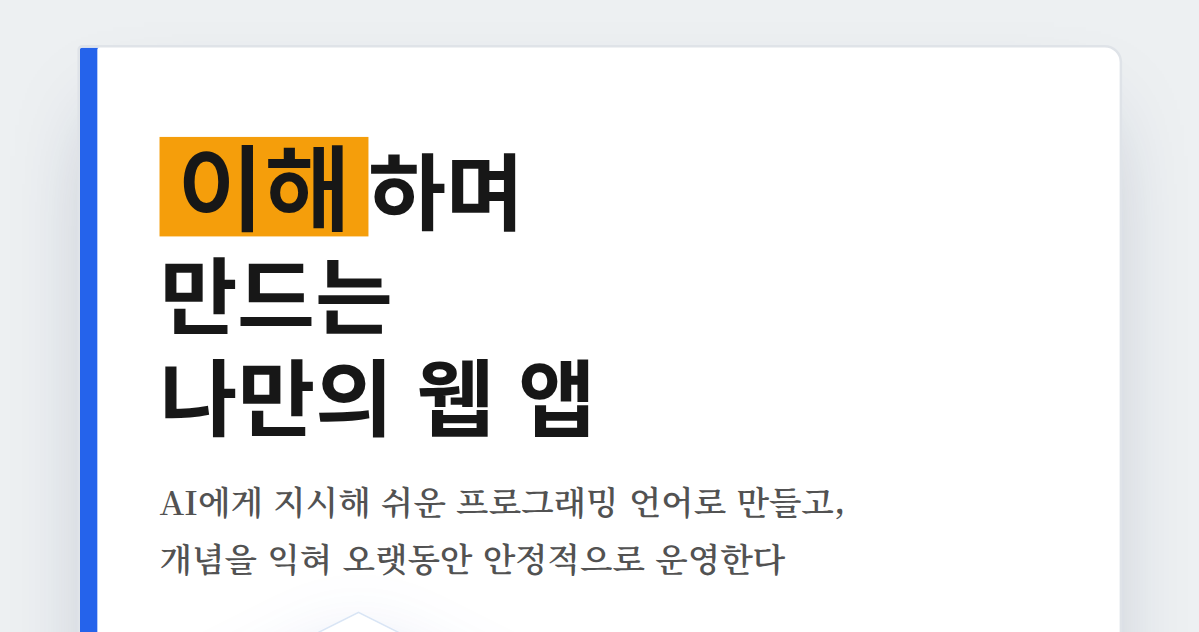
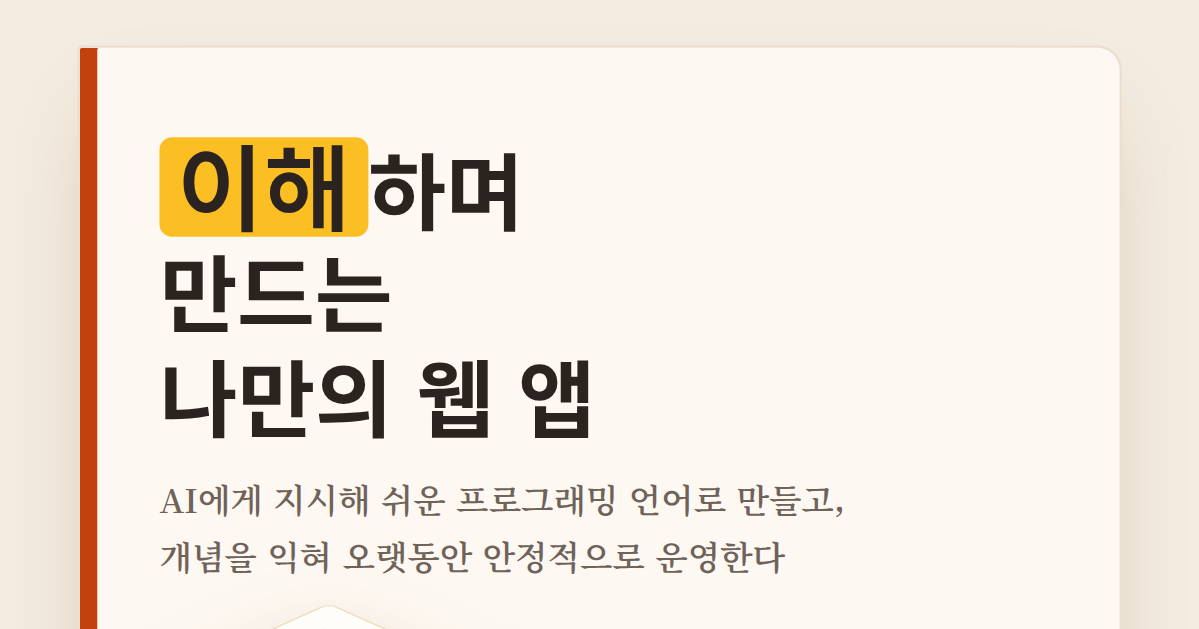
표지 업데이트

diff --git a/book-template/theme/custom.css b/book-template/theme/custom.css
@@ -655,11 +655,11 @@
   justify-content: center;
   gap: 28px;
   padding: 48px 24px 72px;
-  background: #edf0f2;
+  background: #f4ece1;
 }
 
 .dark .fc-home {
-  background: #202226;
+  background: #262220;
 }
 
 .fc-book {
@@ -670,23 +670,23 @@
   aspect-ratio: 7 / 10;
   padding: 30px 32px 26px;
   box-sizing: border-box;
-  border: 1px solid #dfe3e8;
-  border-radius: 2px 7px 7px 2px;
-  background: #ffffff;
-  color: #171717;
+  border: 1px solid #ecdfd0;
+  border-radius: 2px 10px 10px 2px;
+  background: #fdf8f2;
+  color: #2b2320;
   overflow: hidden;
   text-decoration: none !important;
   box-shadow:
-    inset 7px 0 #2563eb,
-    0 18px 36px -14px rgba(23, 37, 84, 0.35);
+    inset 7px 0 #c2410c,
+    0 18px 36px -14px rgba(120, 72, 20, 0.35);
   transition: translate 0.25s, box-shadow 0.25s;
 }
 
 .fc-book:hover {
   translate: 0 -6px;
   box-shadow:
-    inset 7px 0 #2563eb,
-    0 28px 48px -14px rgba(23, 37, 84, 0.45);
+    inset 7px 0 #c2410c,
+    0 28px 48px -14px rgba(120, 72, 20, 0.45);
 }
 
 .fc-book h1 {
@@ -695,7 +695,7 @@
   font-size: 34px;
   line-height: 1.22;
   font-weight: 700;
-  color: #171717;
+  color: #2b2320;
   word-break: keep-all;
 }
 
@@ -707,8 +707,9 @@
 .fc-book h1 strong {
   display: inline-block;
   padding: 0 7px 2px;
-  background: #f59e0b;
-  color: #171717;
+  border-radius: 5px;
+  background: #fbbf24;
+  color: #2b2320;
   font-size: 38px;
   line-height: 1;
 }
@@ -719,7 +720,7 @@
   font-size: 13.5px;
   line-height: 1.7;
   font-weight: 600;
-  color: #525252;
+  color: #6f6259;
   word-break: keep-all;
 }
 
@@ -739,11 +740,11 @@
   display: flex;
   align-items: center;
   gap: 12px;
-  height: 95px;
+  height: 87px;
 }
 
 .fc-layer + .fc-layer {
-  margin-top: -12px;
+  margin-top: -11px;
 }
 
 /* 위 판의 아랫귀가 아래 판을 덮어야 쌓인 모양이 된다 */
@@ -754,11 +755,11 @@
 .fc-plane {
   position: relative;
   flex: none;
-  width: 190px;
+  width: 176px;
   height: 100%;
-  filter: drop-shadow(0 11px 15px rgba(30, 64, 175, 0.16));
-  --sw: 162px;                                       /* 윗면 직사각형 가로 */
-  --sh: 101.25px;                                    /* 세로: 가로와 16:10(모니터 비율) */
+  filter: drop-shadow(0 11px 15px rgba(146, 88, 30, 0.18));
+  --sw: 150px;                                       /* 윗면 직사각형 가로 */
+  --sh: 93.75px;                                     /* 세로: 가로와 16:10(모니터 비율) */
   --t: 11px;                                         /* 판 두께 */
   --dw: calc((var(--sw) + var(--sh)) * 0.3536);      /* 윗면 반너비 */
   --dh: calc((var(--sw) + var(--sh)) * 0.1591);      /* 윗면 반높이 */
@@ -774,8 +775,9 @@
   height: var(--sh);
   box-sizing: border-box;
   padding: 11px 13px;
-  background: #fff;
-  border: 1.5px solid #d9e5f5;
+  background: #fffdfa;
+  border: 1.5px solid #f0dcc2;
+  border-radius: 5px;
   display: flex;
   flex-direction: column;
   justify-content: center;
@@ -803,13 +805,13 @@
   transform: skewY(-24.228deg);
 }
 
-/* 층이 내려갈수록 옆면 파랑이 한 단씩 짙어진다 */
-.fc-layer:nth-child(1) .fc-side-l { background: #bfdbfe; }
-.fc-layer:nth-child(1) .fc-side-r { background: #93c5fd; }
-.fc-layer:nth-child(2) .fc-side-l { background: #3b82f6; }
-.fc-layer:nth-child(2) .fc-side-r { background: #2563eb; }
-.fc-layer:nth-child(3) .fc-side-l { background: #1d4ed8; }
-.fc-layer:nth-child(3) .fc-side-r { background: #1e40af; }
+/* 층이 내려갈수록 옆면 주황이 한 단씩 짙어진다 */
+.fc-layer:nth-child(1) .fc-side-l { background: #fde3b8; }
+.fc-layer:nth-child(1) .fc-side-r { background: #fbcd86; }
+.fc-layer:nth-child(2) .fc-side-l { background: #f6a94c; }
+.fc-layer:nth-child(2) .fc-side-r { background: #ea8c2a; }
+.fc-layer:nth-child(3) .fc-side-l { background: #d97a1e; }
+.fc-layer:nth-child(3) .fc-side-r { background: #b45309; }
 
 /* 윗면 그림: 간소화한 앱 화면(상단 바·플래시카드·버튼) */
 .m-screen {
@@ -823,8 +825,8 @@
 .m-topbar {
   height: 6px;
   width: 45%;
-  border-radius: 2px;
-  background: #e2e8f0;
+  border-radius: 3px;
+  background: #efe4d6;
 }
 
 .m-card {
@@ -832,30 +834,30 @@
   flex-direction: column;
   gap: 5px;
   padding: 7px 8px;
-  border: 2px solid #bfdbfe;
+  border: 2px solid #f8d9a8;
   border-radius: 7px;
-  background: #eff6ff;
+  background: #fff7ec;
 }
 
 .m-word {
   height: 7px;
   width: 45%;
-  border-radius: 2px;
-  background: #171717;
+  border-radius: 3px;
+  background: #2b2320;
 }
 
 .m-ans {
   height: 5px;
   width: 70%;
-  border-radius: 2px;
-  background: #93c5fd;
+  border-radius: 3px;
+  background: #f6a94c;
 }
 
 .m-btn {
   height: 9px;
   width: 100%;
   border-radius: 5px;
-  background: #2563eb;
+  background: #ea8c2a;
 }
 
 /* 윗면 그림: if/for 코드 줄 */
@@ -886,19 +888,19 @@
   font-weight: 700;
   font-size: 15px;
   line-height: 1;
-  color: #2563eb;
+  color: #c2410c;
 }
 
 .m-b {
   height: 6px;
-  border-radius: 2px;
-  background: #cbd5e1;
+  border-radius: 3px;
+  background: #e6dbcd;
 }
 
 .m-b1 { width: 48%; }
 .m-b2 { width: 62%; }
 .m-b3 { width: 36%; }
-.m-b4 { width: 52%; background: #93c5fd; }
+.m-b4 { width: 52%; background: #f6c98a; }
 
 /* 윗면 그림: DB 테이블 격자(머리 행 + 셀) */
 .m-table {
@@ -906,20 +908,20 @@
   grid-template-columns: repeat(4, 1fr);
   gap: 2px;
   width: 100%;
-  border: 2px solid #bfdbfe;
+  border: 2px solid #f8d9a8;
   border-radius: 7px;
   overflow: hidden;
-  background: #bfdbfe;
+  background: #f8d9a8;
 }
 
 .m-th {
   height: 11px;
-  background: #2563eb;
+  background: #ea8c2a;
 }
 
 .m-td {
   height: 11px;
-  background: #fff;
+  background: #fffdfa;
 }
 
 /* 행간을 죄어 이름과 기술이 한 묶음으로 읽히게 한다(본문 행간을 그대로 상속하면
@@ -934,15 +936,14 @@
 .fc-layer-name {
   font-size: 13px;
   font-weight: 700;
-  color: #171717;
+  color: #2b2320;
 }
 
 .fc-layer-tech {
-  font-family: ui-monospace, 'Cascadia Code', 'Source Code Pro', Menlo, Consolas, monospace;
-  font-size: 10px;
-  font-weight: 600;
-  letter-spacing: 0.05em;
-  color: #2563eb;
+  font-size: 10.5px;
+  font-weight: 700;
+  letter-spacing: 0.04em;
+  color: #c2410c;
 }
 
 .fc-book-pitch {
@@ -950,9 +951,9 @@
   padding: 0;
   list-style: none;
   font-size: 10.5px;
-  line-height: 1.65;
+  line-height: 1.75;
   font-weight: 600;
-  color: #525252;
+  color: #6f6259;
   word-break: keep-all;
 }
 
@@ -962,7 +963,8 @@
   width: 5px;
   height: 5px;
   margin: 0 7px 1px 0;
-  background: #2563eb;
+  border-radius: 50%;
+  background: #ea8c2a;
 }
 
 .fc-book-footer {
@@ -971,17 +973,17 @@
   justify-content: flex-end;
   margin: auto 0 0;
   padding-top: 10px;
-  border-top: 1px solid #e5e5e5;
+  border-top: 1px solid #ecdfd0;
   font-size: 9px;
   font-weight: 700;
-  color: #737373;
+  color: #8a7a6d;
 }
 
 .fc-book-author {
   margin: 0;
   font-size: 13px;
   font-weight: 600;
-  color: #171717;
+  color: #2b2320;
 }
 
 /* 책 설명과 버튼 묶음. 좁은 화면에서는 표지 아래에, 넓은 화면에서는 표지 오른쪽에 놓인다 */
@@ -1046,18 +1048,20 @@
 }
 
 .fc-btn:hover {
-  border-color: var(--vp-c-brand-1);
-  color: var(--vp-c-brand-1);
+  border-color: #c2410c;
+  color: #c2410c;
 }
 
+/* 표지 옆에 놓이는 버튼이라 사이트 브랜드 색이 아니라 표지 색을 따른다 */
 .fc-btn.brand {
-  background: var(--vp-c-brand-1);
-  border-color: var(--vp-c-brand-1);
+  background: #c2410c;
+  border-color: #c2410c;
   color: #fff;
 }
 
 .fc-btn.brand:hover {
-  background: var(--vp-c-brand-2);
+  background: #9a3412;
+  border-color: #9a3412;
   color: #fff;
 }
 
@@ -1089,19 +1093,19 @@
   }
 
   .fc-layer {
-    height: 79px;
+    height: 71px;
     gap: 10px;
   }
 
   .fc-layer + .fc-layer {
-    margin-top: -10px;
+    margin-top: -9px;
   }
 
   .fc-plane {
-    width: 154px;
-    --sw: 132px;
-    --sh: 82.5px;
-    --t: 10px;
+    width: 140px;
+    --sw: 120px;
+    --sh: 75px;
+    --t: 9px;
   }
 
   .fc-top {
